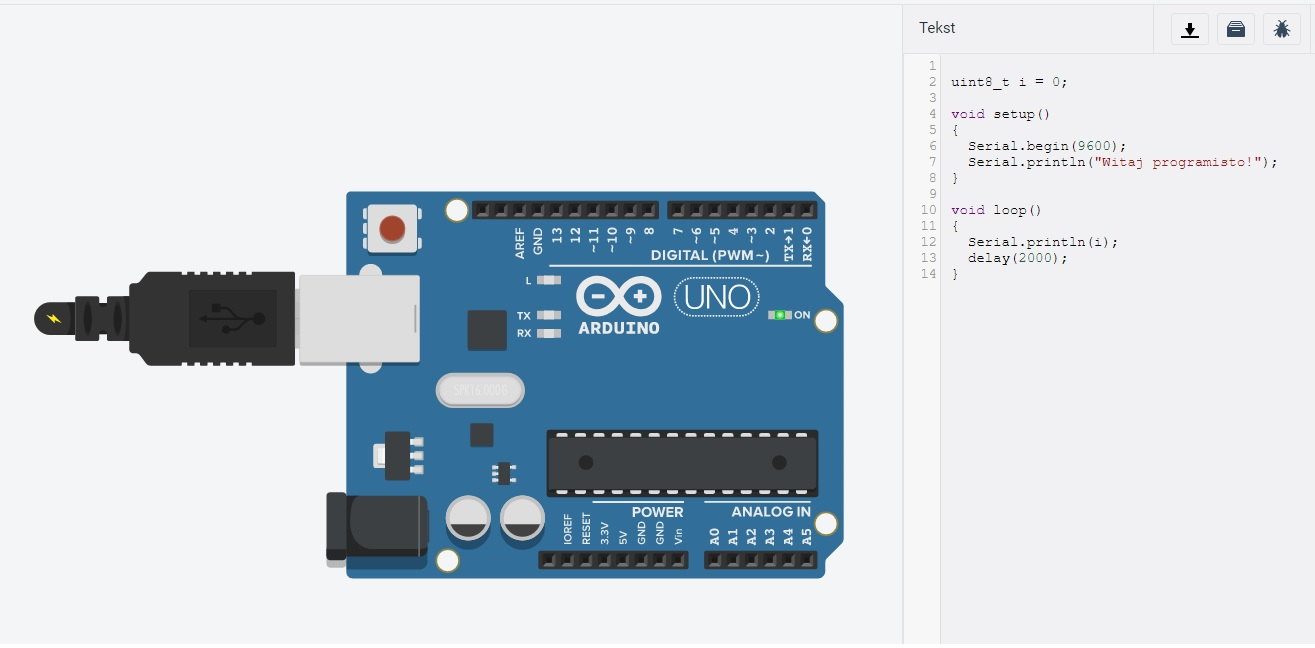
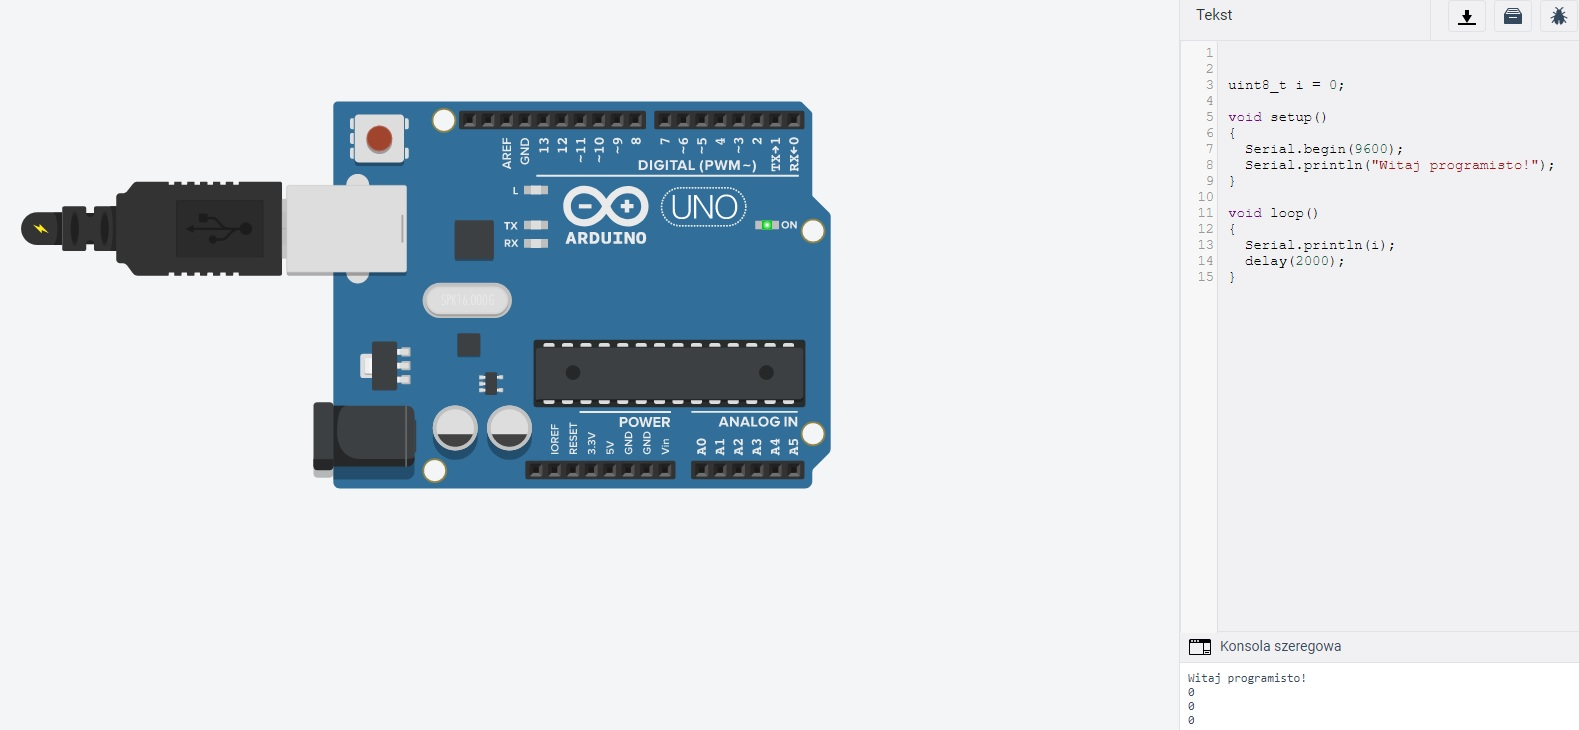
Wykonano zadanie 3.2.2 –zliczanie wciśnięć UART

diff --git a/Zadanie-3-2/src/main.cpp b/Zadanie-3-2/src/main.cpp
@@ -1,15 +1,35 @@
 #include <Arduino.h>
 
-uint8_t i = 0;
+#define BUTTON 2
 
-void setup() 
-{
+int stanPrzycisku;
+int poprzedniStanPrzycisku = LOW;
+unsigned long poprzedniCzas = 0;
+unsigned int liczba_nacisniec = 0;
+
+void setup() {
   Serial.begin(9600);
-  Serial.println("Witaj programisto!");
+  pinMode(BUTTON, INPUT);
 }
 
-void loop() 
-{
-  Serial.println(i);
-  delay(2000);
+void loop() {
+  int odczyt = digitalRead(BUTTON);
+
+  if (odczyt != poprzedniStanPrzycisku) {
+    poprzedniCzas = millis();
+  }
+
+  if ((millis() - poprzedniCzas) > 50) {
+    if (odczyt != stanPrzycisku) {
+      stanPrzycisku = odczyt;
+      if (stanPrzycisku == HIGH) {
+        liczba_nacisniec++;
+
+        Serial.print("Liczba nacisniec przycisku: ");
+        Serial.println(liczba_nacisniec);
+      }
+    }
+  }
+
+  poprzedniStanPrzycisku = odczyt;
 }

diff --git a/README.md b/README.md
@@ -14,3 +14,5 @@ Grupa studencka: WEL18DE1S1
 
 # Odpowiedzi do pytań z instrukcji
 ...
+Odpowiedzi do pytań:
+zadanie 3-2-2: Funkcjonalność programu można rozbudować poprzez zdefiniowanie w kodzie aktualniej liczby naciśnięć na mniejszą.
